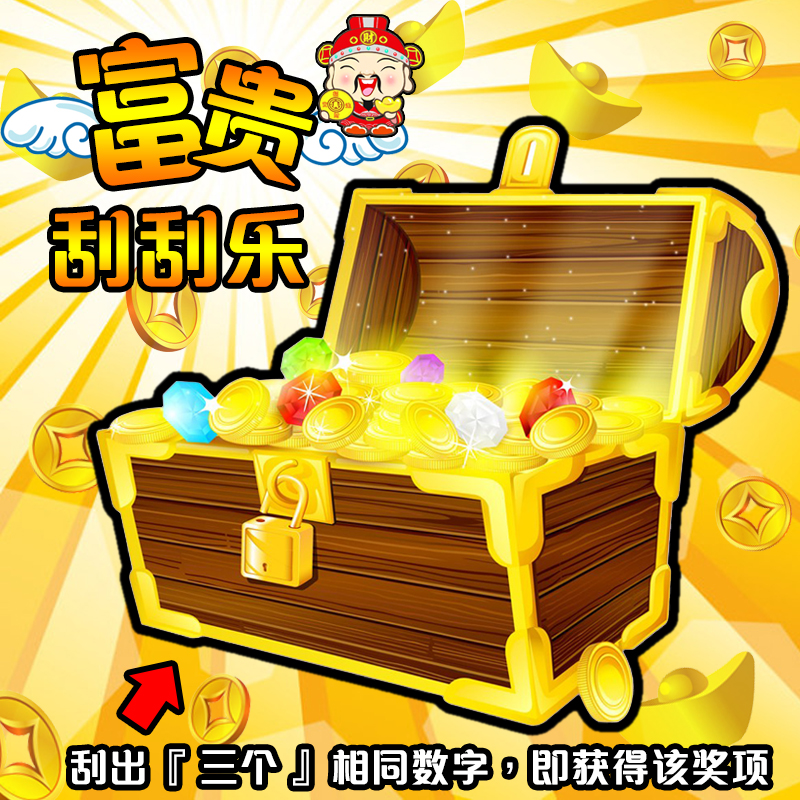
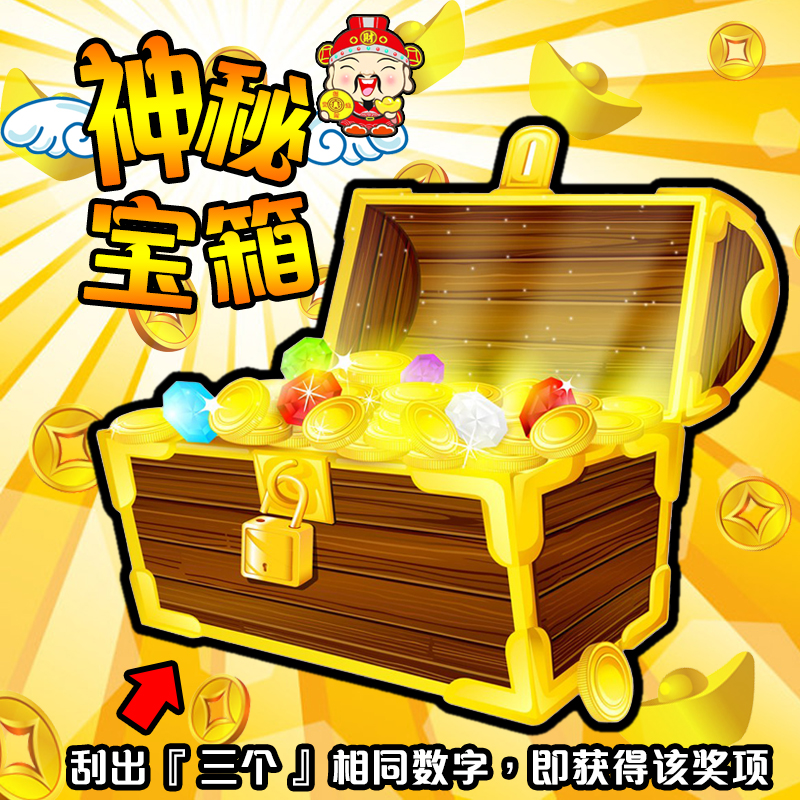
修改 換文字 換簡體字 調整位置

Changed region(s): [[0.0625, 0.0312, 0.4062, 0.4062]]

diff --git a/public/js/task/pickGames.js b/public/js/task/pickGames.js
@@ -9,7 +9,7 @@ $(document).ready(function(){
 function doublecheck(Type){
     swal({
         title: "注意",
-        text: "選擇後即使退出結果一樣會送出",
+        text: "选择后即使退出结果一样会送出",
         type:"info",
         closeOnConfirm: false,
         showCancelButton: true,
@@ -19,8 +19,8 @@ function doublecheck(Type){
         if(Type==0){
             setTimeout(function(){
                 swal({
-                    title: "富貴刮刮樂",
-                    text: "8個數字3個相同即得該獎項",
+                    title: "神秘宝箱",
+                    text: "8个数字3个相同即得该奖项",
                     type:"warning",
                     closeOnConfirm: false,
                     showCancelButton: true,
@@ -34,7 +34,7 @@ function doublecheck(Type){
             setTimeout(function(){
                 swal({
                     title: "敲金蛋",
-                    text: "錘子與金蛋數字相同即得該獎項",
+                    text: "锤子与金蛋数字相同即得该奖项",
                     type:"warning",
                     closeOnConfirm: false,
                     showCancelButton: true,
@@ -53,3 +53,7 @@ function ErFun(_obj){
     // console.log(_obj);
     swal("失败", "", "error");
 }
+
+
+
+

diff --git a/resources/views/task/games/smallGame.blade.php b/resources/views/task/games/smallGame.blade.php
@@ -29,9 +29,9 @@
     </div>
     <input type="hidden" name="MoneyBack" id="MoneyBack" value="{{ $box->GameAns[0]->MoneyBack }}">
     <input type="hidden" name="TaskOdds" id="TaskOdds" value="{{ $box->GameAns[0]->TaskOdds }}">
-    <div style="text-align: center; margin-top: 200px;">
+    <div style="text-align: center; margin-top: 350px;">
         <span class="button-wrap">
-            <a href="#" class="button button-circle button-primary" id="sign" style="font-size: 30pt;">
+            <a href="#" class="button button-circle button-primary" id="sign" style="font-size: 50pt;">
                 {{ trans('view.games.b.send') }}
             </a>
         </span>

diff --git a/resources/views/task/games/pickGames.blade.php b/resources/views/task/games/pickGames.blade.php
@@ -16,7 +16,7 @@
                 <div class="span5 sortListBox">
                     <img class="span12 sortImg" src="./images/games/Awards1.jpg">
                     <div class="span12 sortListTextBox">
-                        <div class="span12 TextTitle">富貴刮刮樂</div>
+                        <div class="span12 TextTitle">神秘宝箱</div>
                     </div>
                 </div>
             </a>

diff --git a/resources/lang/ch/view.php b/resources/lang/ch/view.php
@@ -237,7 +237,7 @@
 		],
 		'games' =>[
 			'b' =>[
-				'send' => '兑奖',
+				'send' => '兑',
 			],
 		],
 		'sign' =>[
